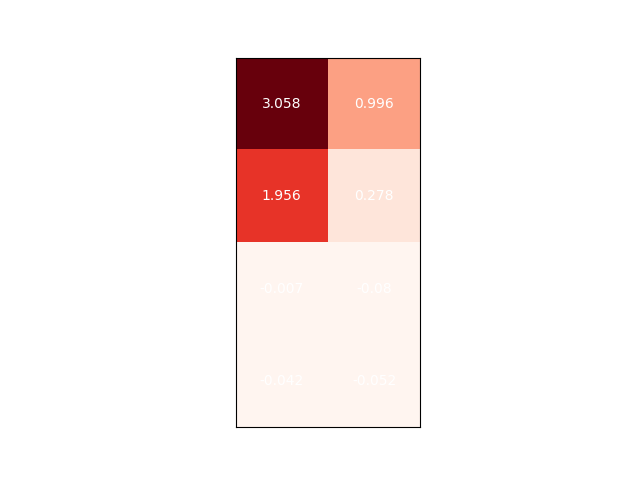
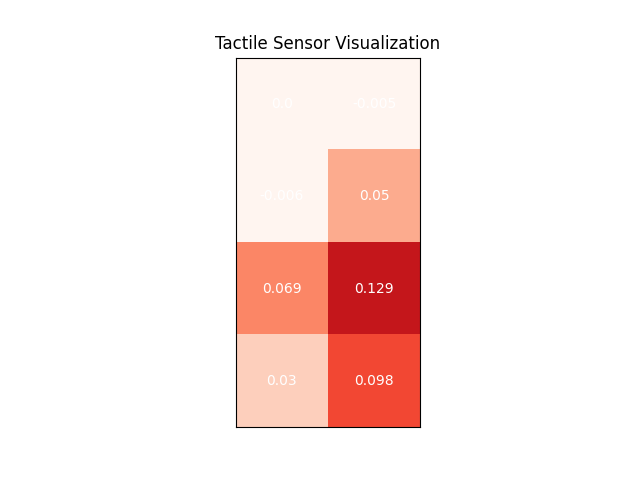
minor improvements

Changed region(s): [[0.3438, 0.0625, 0.6875, 0.9062]]

diff --git a/sensor.py b/sensor.py
@@ -1,7 +1,6 @@
 #!/usr/bin/env python3
 
 import time
-import matplotlib
 
 import matplotlib.pyplot as plt
 import numpy as np
@@ -28,7 +27,7 @@ class LiveHeatmap:
         self.ax.set_yticks([])
         if text:
             self.create_text(data)
-        self.im = self.ax.imshow(data, cmap='Reds', vmin=0, vmax=15)
+        self.im = self.ax.imshow(data, cmap='Reds', vmin=0, vmax=0.5)
         plt.show(block=False)
 
     def update_map(self, data, scale=1, text=True):
@@ -60,13 +59,14 @@ class LiveHeatmap:
     def set_axes_ticks(self, xticks, yticks):
         self.ax.set_xticks(xticks)
         self.ax.set_yticks(yticks)
+    
+    def add_title(self, title):
+        self.ax.set_title(title)
 
     def save_fig(self, needs_to_be_here_for_some_reason):
         plt.savefig("C:\\Users\\Aiden\\Documents\\Research\\UnderwaterTactileSensor\\Underwater-Tactile-Sensor\\Figures\\heatmap.png")
         sys.exit()
     
-
-
 
 def writeCommand(command):
     """ Writes command to arduino to initiate different functionalities
@@ -131,17 +131,6 @@ def readSensorData(calibration=None, timeout=5):
             return True, processedData
         return False, None 
 
-def vizSensorData(fig, ax, im, data, scale=1) -> None:
-    time.sleep(0.1)
-    im.set_array(data*scale)
-    row, col = data.shape
-    for i in range(row):
-        for j in range(col):
-            ax.texts[(j*col)+i].set_text(round(data[i, j], 3))
-    fig.canvas.draw()
-    fig.canvas.flush_events()
-
-
 def sendSerialMSG(msg, delimiter="\n"):
     msg_str = "{0}{1}".format(msg, delimiter)
     # msg_str = "{0} {1}".format(msg,delimiter)
@@ -154,7 +143,7 @@ def sendSerialMSG(msg, delimiter="\n"):
     #     if arduino.in_waiting > 0:
     #         confirmation = True
     #         print(arduino.readline().decode())
-
+    pass
 
 def startup(delay=100, timeout=5):
     start_time = time.time()
@@ -183,6 +172,8 @@ if __name__ == "__main__":
         print("starting program")
         cal = getCalibration()
         heatmap = LiveHeatmap()
+        heatmap.create_heat_map()
+        heatmap.add_title("Tactile Sensor Visualization")
         saved = False
         i = 0
         while True:
@@ -191,7 +182,7 @@ if __name__ == "__main__":
             msg_status, sens_data = readSensorData(calibration=cal)
             # time.sleep(0.005)
             if msg_status != False:
-                heatmap.update_map(sens_data, scale=5)
+                heatmap.update_map(sens_data, scale=3)
 
     else:
         print("failed to startup")
